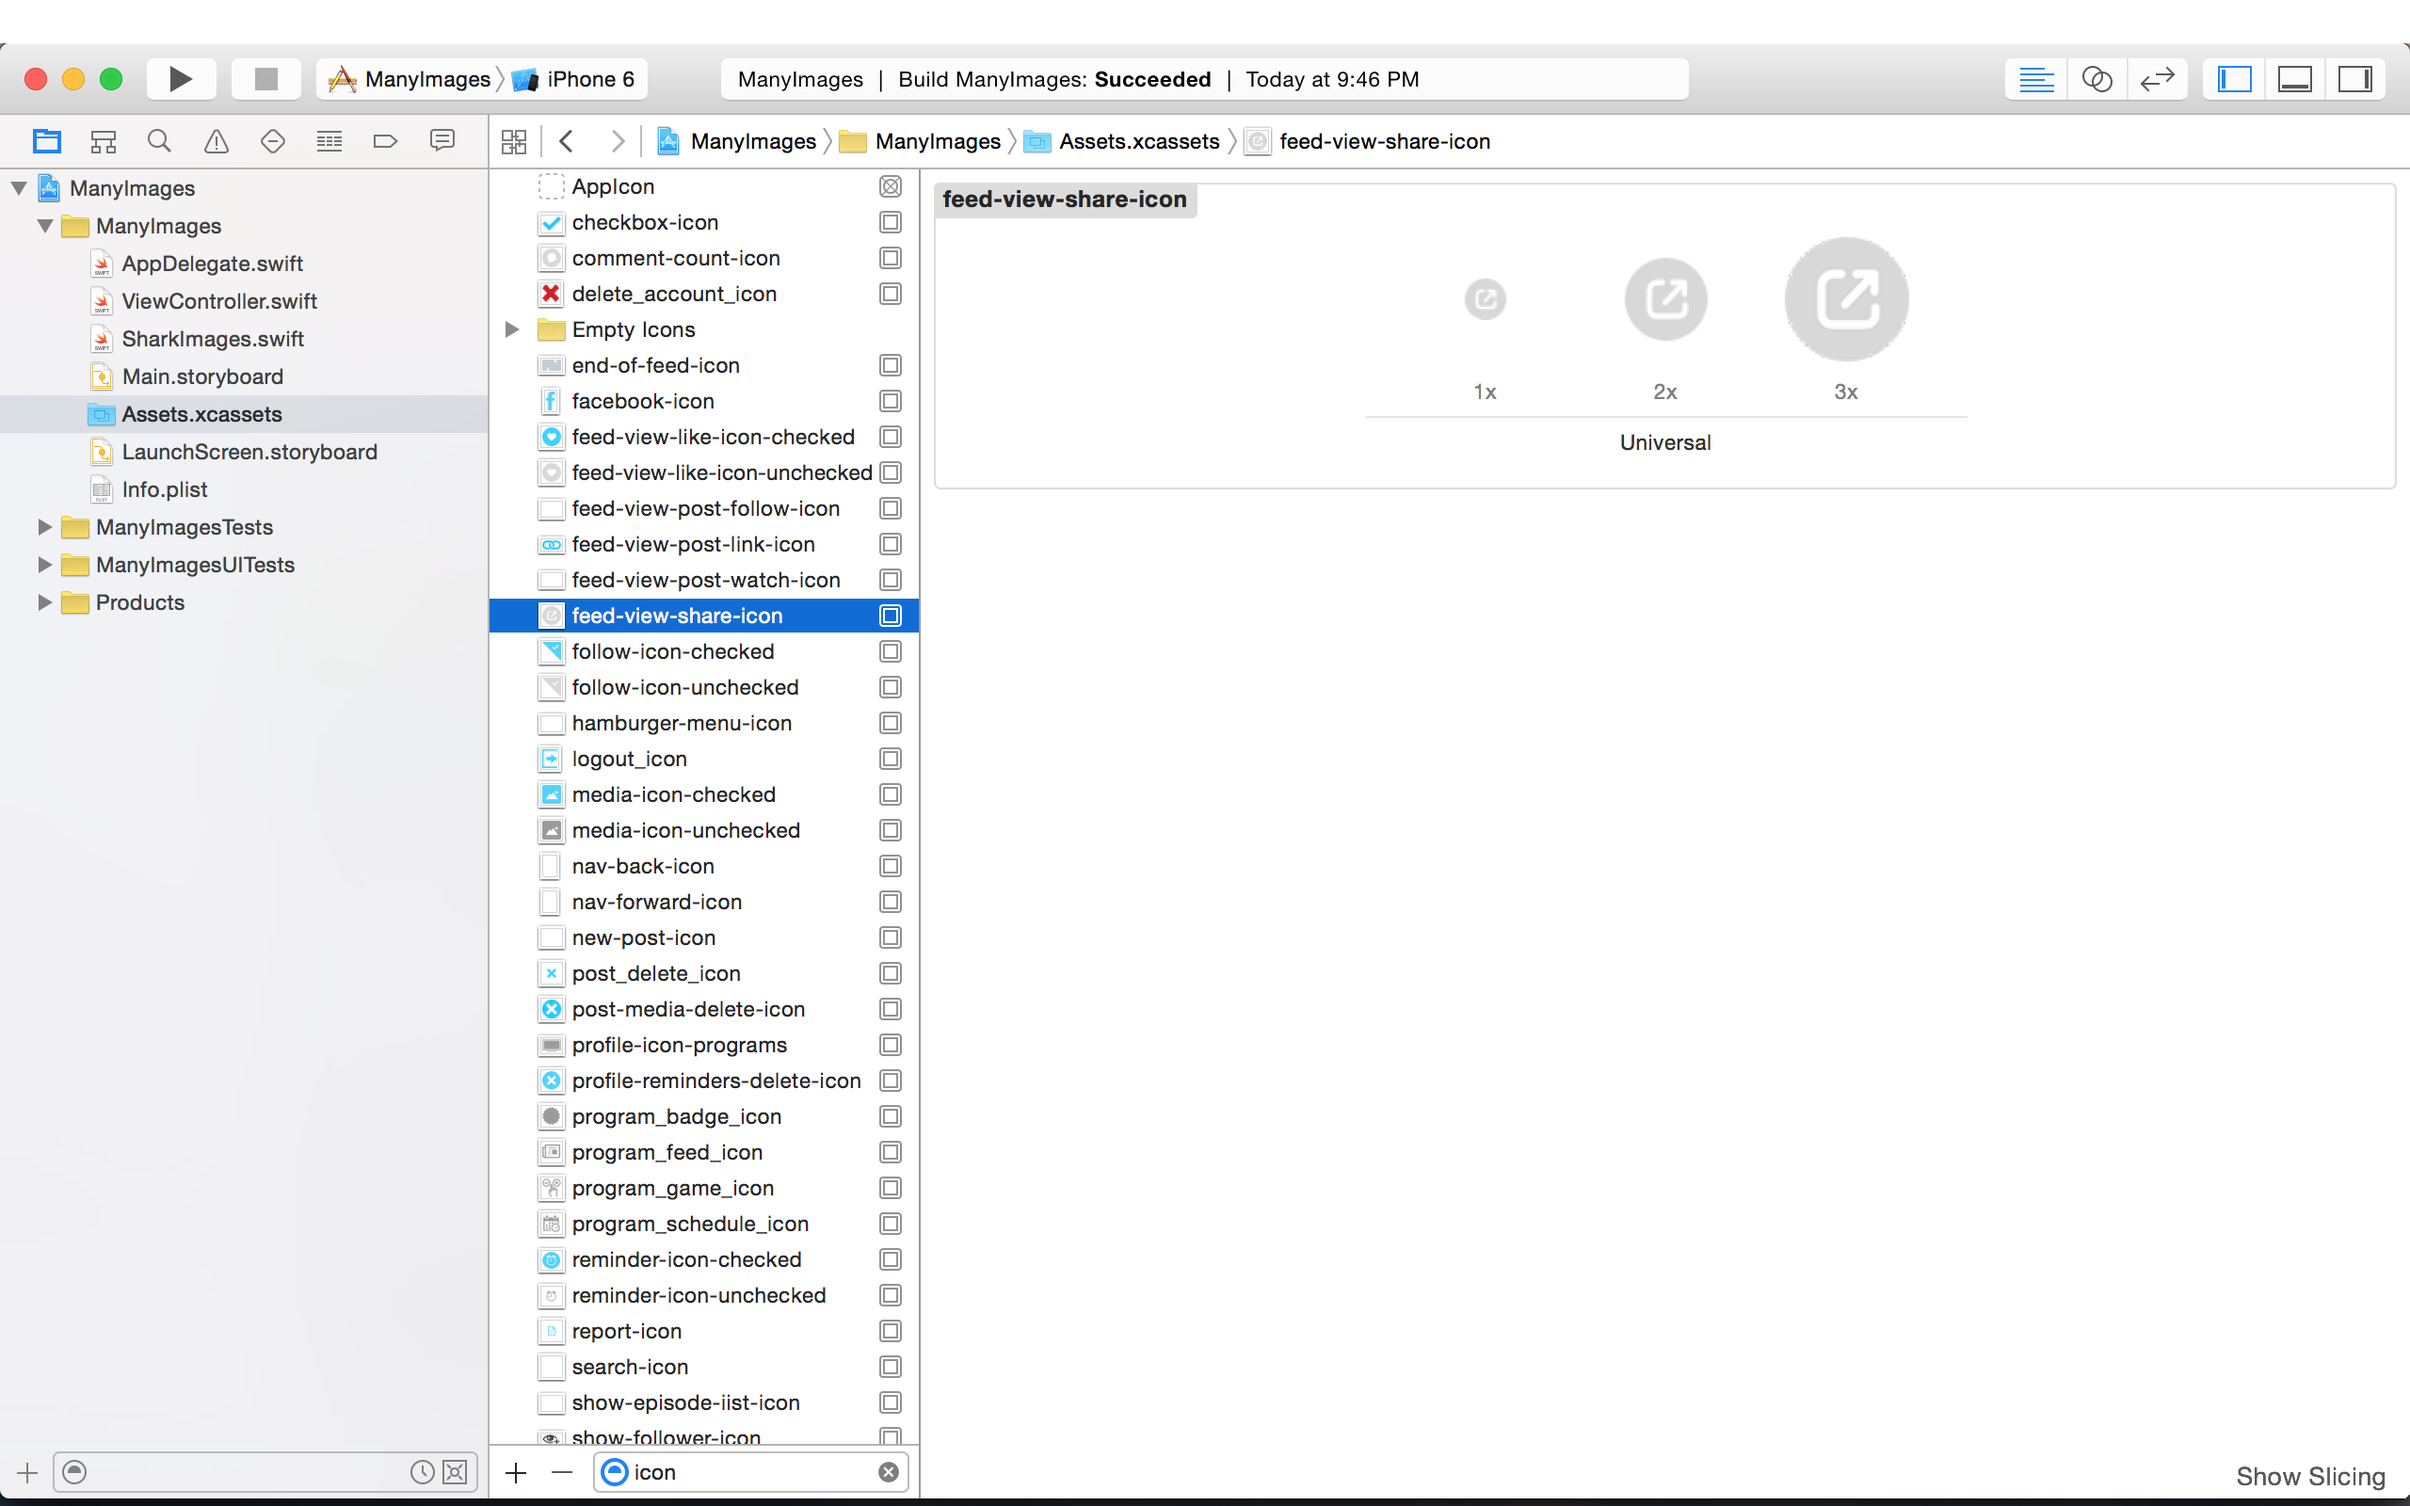
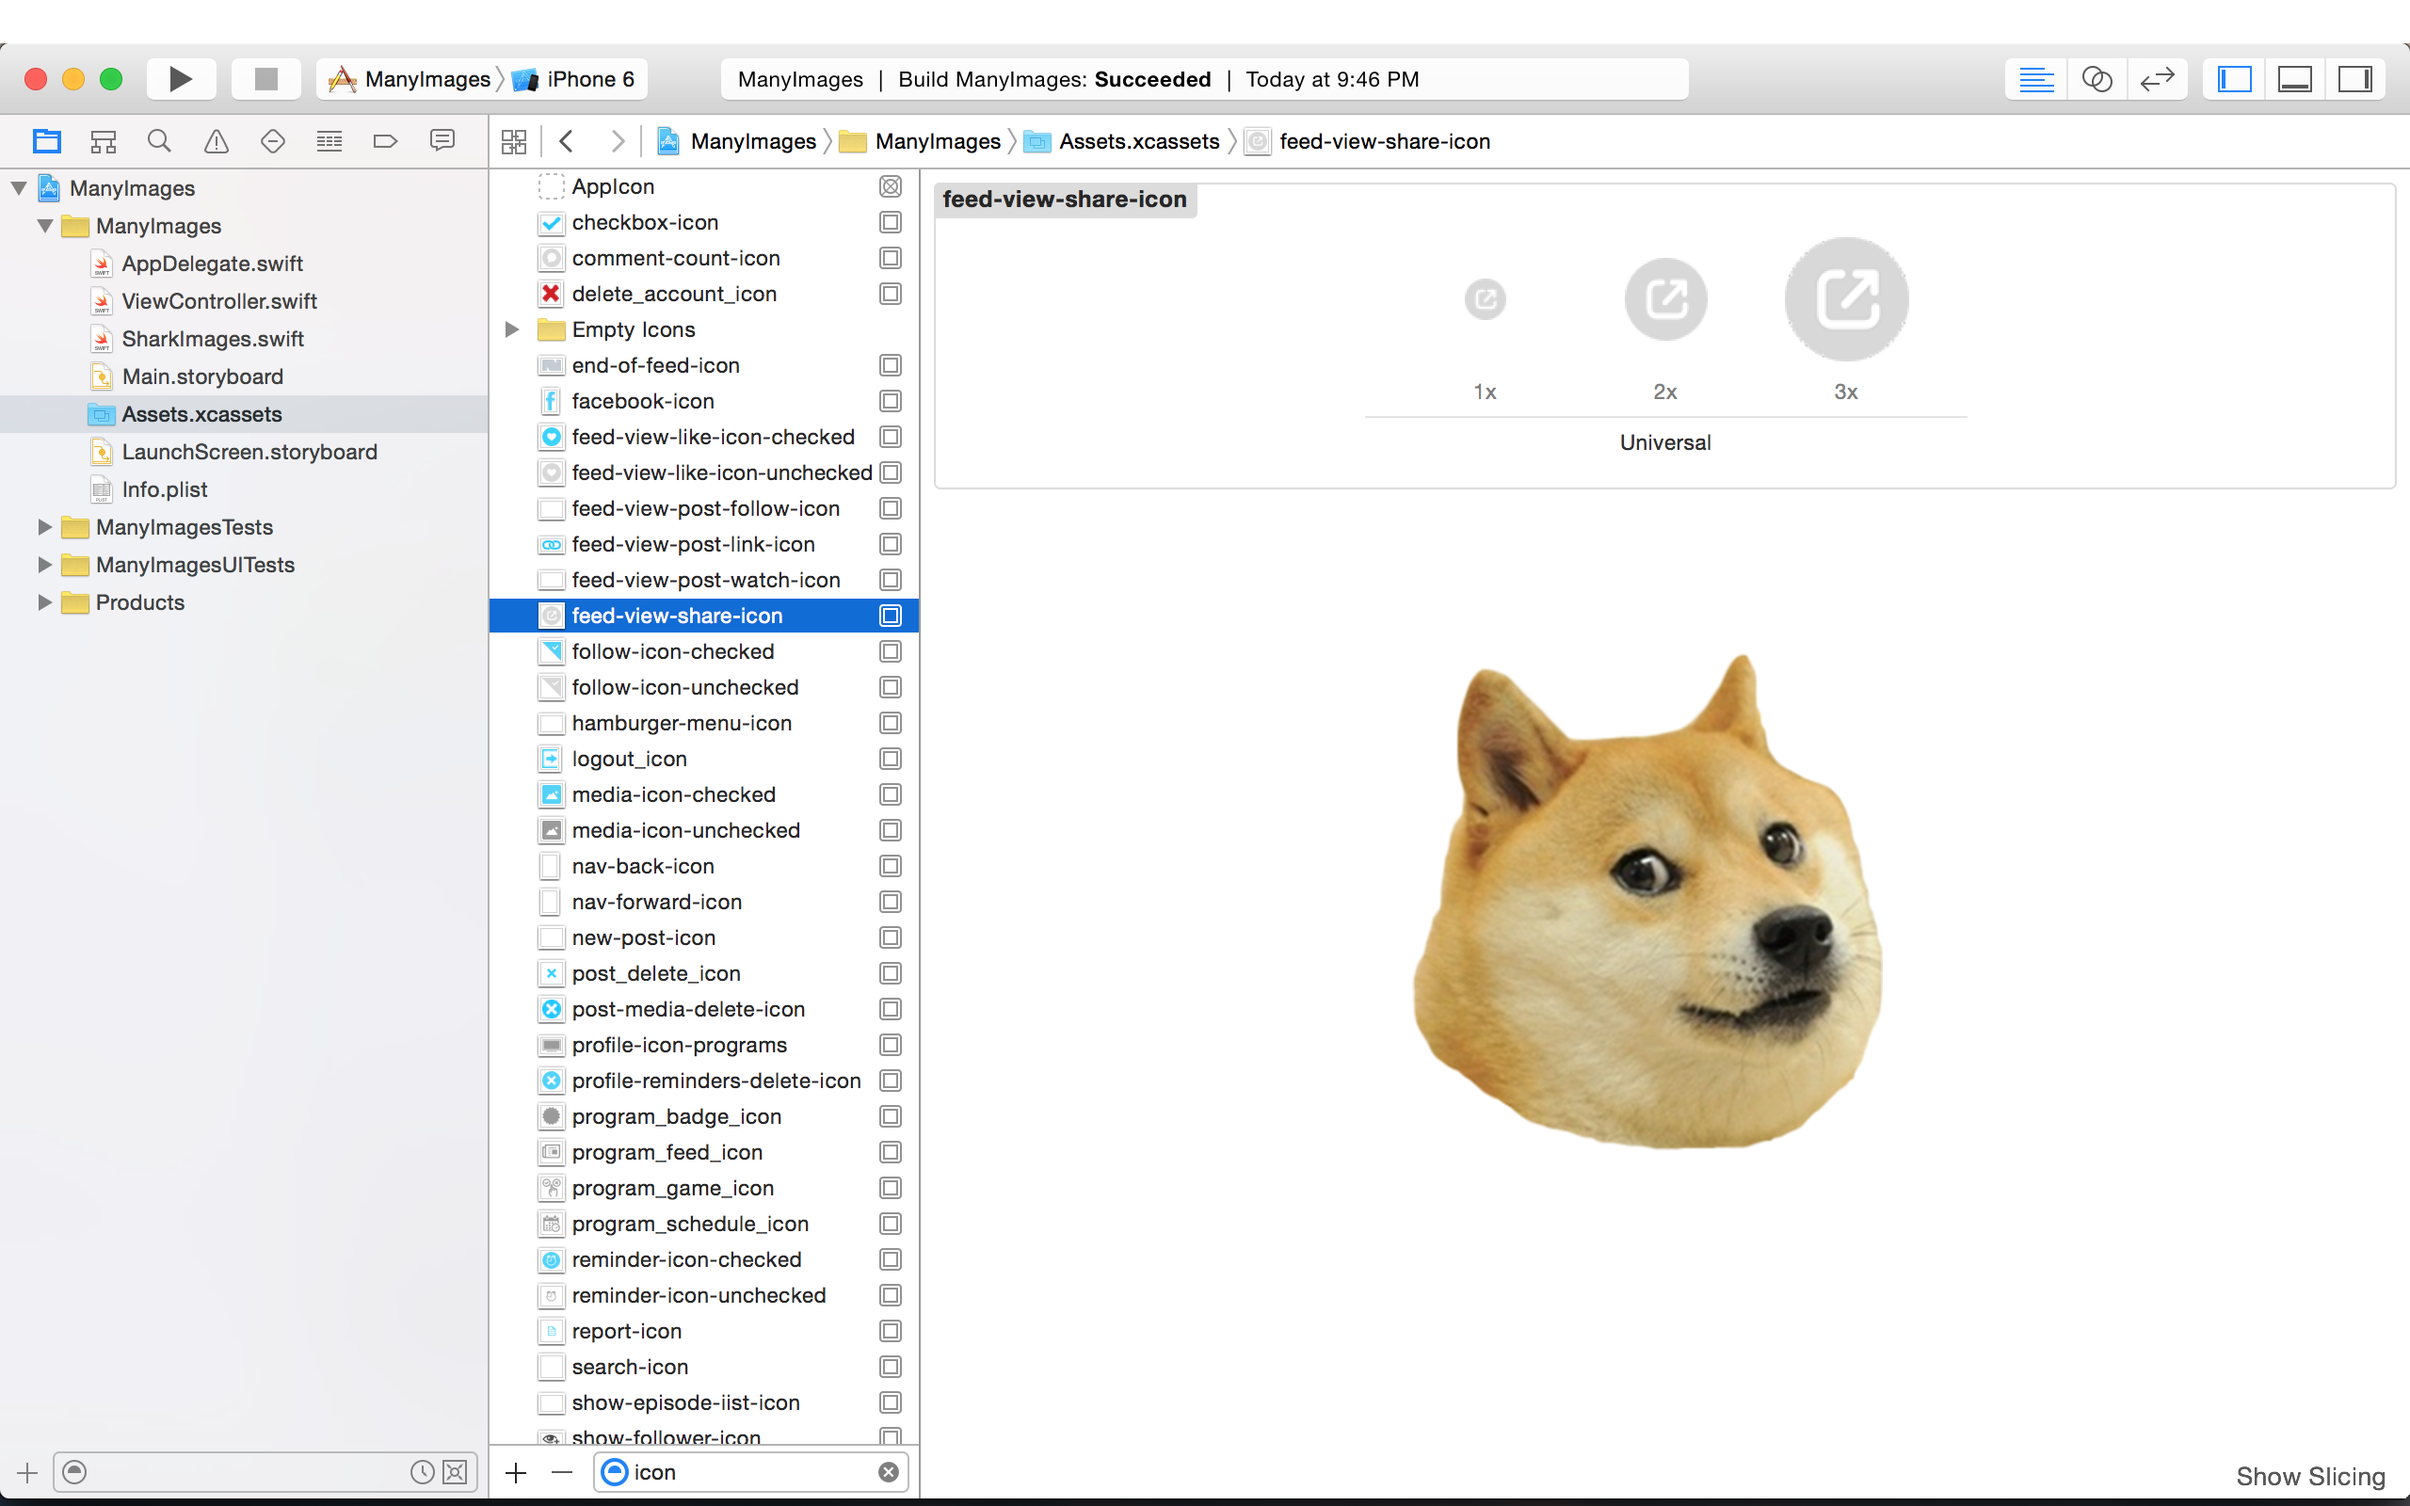
Of course, add Doge.

Changed region(s): [[0.5625, 0.4375, 0.7812, 0.7812]]

diff --git a/_site/2015/02/03/first-post/index.html b/_site/2015/02/03/first-post/index.html
@@ -140,7 +140,7 @@
 
       <footer class="footer">
         <small>
-          &copy; <time datetime="2015-07-31T11:49:00+03:00">2015</time>. Lazy thoughts, All rights reserved.
+          &copy; <time datetime="2015-07-31T12:57:33+03:00">2015</time>. Lazy thoughts, All rights reserved.
         </small>
       </footer>
     </div>

diff --git a/_site/2015/02/20/From JSON to Type-safe objects in Swift/index.html b/_site/2015/02/20/From JSON to Type-safe objects in Swift/index.html
@@ -356,7 +356,7 @@
 
       <footer class="footer">
         <small>
-          &copy; <time datetime="2015-07-31T11:49:00+03:00">2015</time>. Lazy thoughts, All rights reserved.
+          &copy; <time datetime="2015-07-31T12:57:33+03:00">2015</time>. Lazy thoughts, All rights reserved.
         </small>
       </footer>
     </div>

diff --git a/_site/2015/06/17/working-hard/index.html b/_site/2015/06/17/working-hard/index.html
@@ -148,7 +148,7 @@
 
       <footer class="footer">
         <small>
-          &copy; <time datetime="2015-07-31T11:49:00+03:00">2015</time>. Lazy thoughts, All rights reserved.
+          &copy; <time datetime="2015-07-31T12:57:33+03:00">2015</time>. Lazy thoughts, All rights reserved.
         </small>
       </footer>
     </div>

diff --git a/_site/2015/07/28/Shark/index.html b/_site/2015/07/28/Shark/index.html
@@ -272,7 +272,7 @@
 
       <footer class="footer">
         <small>
-          &copy; <time datetime="2015-07-31T11:49:00+03:00">2015</time>. Lazy thoughts, All rights reserved.
+          &copy; <time datetime="2015-07-31T12:57:33+03:00">2015</time>. Lazy thoughts, All rights reserved.
         </small>
       </footer>
     </div>

diff --git a/_site/index.html b/_site/index.html
@@ -226,7 +226,7 @@
 
       <footer class="footer">
         <small>
-          &copy; <time datetime="2015-07-31T11:49:00+03:00">2015</time>. Lazy thoughts, All rights reserved.
+          &copy; <time datetime="2015-07-31T12:57:33+03:00">2015</time>. Lazy thoughts, All rights reserved.
         </small>
       </footer>
     </div>

diff --git a/_site/page2/index.html b/_site/page2/index.html
@@ -104,7 +104,7 @@
 
       <footer class="footer">
         <small>
-          &copy; <time datetime="2015-07-31T11:49:00+03:00">2015</time>. Lazy thoughts, All rights reserved.
+          &copy; <time datetime="2015-07-31T12:57:33+03:00">2015</time>. Lazy thoughts, All rights reserved.
         </small>
       </footer>
     </div>

diff --git a/_site/page3/index.html b/_site/page3/index.html
@@ -312,7 +312,7 @@
 
       <footer class="footer">
         <small>
-          &copy; <time datetime="2015-07-31T11:49:00+03:00">2015</time>. Lazy thoughts, All rights reserved.
+          &copy; <time datetime="2015-07-31T12:57:33+03:00">2015</time>. Lazy thoughts, All rights reserved.
         </small>
       </footer>
     </div>

diff --git a/_site/404.html b/_site/404.html
@@ -71,7 +71,7 @@
 
       <footer class="footer">
         <small>
-          &copy; <time datetime="2015-07-31T11:49:00+03:00">2015</time>. Lazy thoughts, All rights reserved.
+          &copy; <time datetime="2015-07-31T12:57:33+03:00">2015</time>. Lazy thoughts, All rights reserved.
         </small>
       </footer>
     </div>

diff --git a/_site/about/index.html b/_site/about/index.html
@@ -74,7 +74,7 @@
 
       <footer class="footer">
         <small>
-          &copy; <time datetime="2015-07-31T11:49:00+03:00">2015</time>. Lazy thoughts, All rights reserved.
+          &copy; <time datetime="2015-07-31T12:57:33+03:00">2015</time>. Lazy thoughts, All rights reserved.
         </small>
       </footer>
     </div>

diff --git a/_site/archive/index.html b/_site/archive/index.html
@@ -87,7 +87,7 @@
 
       <footer class="footer">
         <small>
-          &copy; <time datetime="2015-07-31T11:49:00+03:00">2015</time>. Lazy thoughts, All rights reserved.
+          &copy; <time datetime="2015-07-31T12:57:33+03:00">2015</time>. Lazy thoughts, All rights reserved.
         </small>
       </footer>
     </div>

diff --git a/_site/page4/index.html b/_site/page4/index.html
@@ -96,7 +96,7 @@
 
       <footer class="footer">
         <small>
-          &copy; <time datetime="2015-07-31T11:49:00+03:00">2015</time>. Lazy thoughts, All rights reserved.
+          &copy; <time datetime="2015-07-31T12:57:33+03:00">2015</time>. Lazy thoughts, All rights reserved.
         </small>
       </footer>
     </div>
